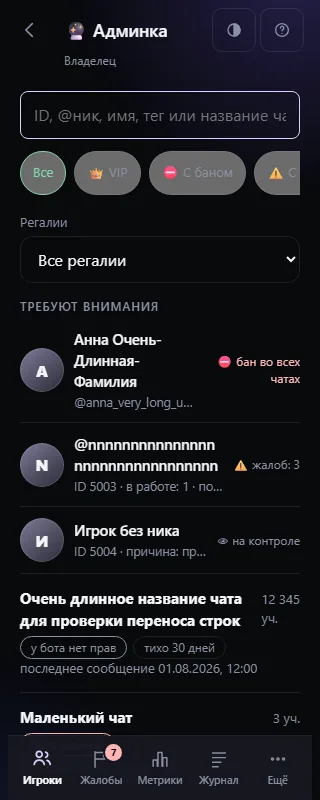
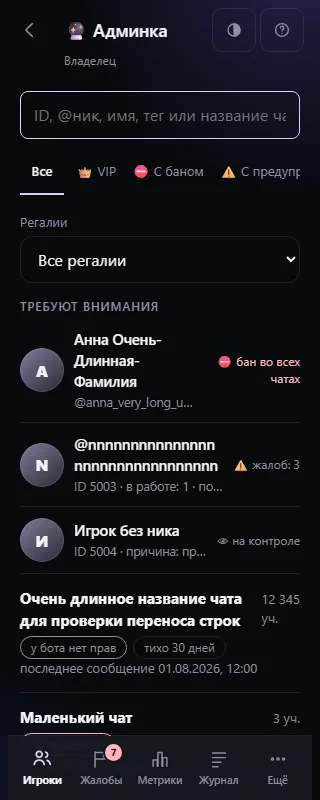
fix(predvestnik): flatten admin filters after owner review
Roadmap: S11

Changed region(s): [[0.0625, 0.1875, 0.9375, 0.25]]

diff --git a/predvestnik_v2/FastAPI/static/bot-admin/admin.css b/predvestnik_v2/FastAPI/static/bot-admin/admin.css
@@ -514,7 +514,10 @@ a[href="#"], a.ag-link { display: inline-flex; align-items: center; overflow-wra
 summary { display: flex; align-items: center; cursor: pointer; gap: 8px; color: var(--v3-dim); }
 summary::before { content: '›'; }
 details[open] > summary::before { transform: rotate(90deg); }
-button.chip, .chip[onclick] { display: inline-flex; align-items: center; justify-content: center; padding: 8px 12px; }
+button.chip, .chip[onclick] { appearance: none; display: inline-flex; align-items: center; justify-content: center; padding: 8px 12px; background: transparent; box-shadow: none; font-family: inherit; cursor: pointer; }
+.filters .chip { border: 0; border-bottom: 2px solid transparent; border-radius: 0; padding: 8px 4px; color: var(--v3-dim); }
+.filters .chip.ok { border-bottom-color: var(--v3-acc); color: var(--v3-ink); font-weight: 600; }
+.filters .chip:hover { color: var(--v3-ink); }
 .top { display: grid; grid-template-columns: 44px minmax(0,1fr) 44px 44px; gap: 4px; padding: calc(8px + var(--v3-safe-t)) 16px 4px; max-width: 900px; margin: auto; }
 .top .brand { font-size: 18px; }
 .top .who { grid-row: 2; grid-column: 2 / -1; margin: -4px 0 0; font-size: 12px; }

diff --git a/predvestnik_v2/tools/admin_ui_smoke.py b/predvestnik_v2/tools/admin_ui_smoke.py
@@ -20,6 +20,8 @@ OPENERS = {"admin-purge": f"purgeView(document.querySelector('#main'), {CHAT['id
            **{f"admin-{tab}": f"open('{tab}')" for tab in ("reports", "journal", "broadcast", "access", "metrics")}}
 PROBE = """() => {
   const fails = [], w = innerWidth;
+  const native = document.createElement('button'); document.body.append(native);
+  const nativeBg = getComputedStyle(native).backgroundColor; native.remove();
   const visible = n => n.getClientRects().length && !n.closest('[hidden],details:not([open]) > :not(summary)');
   const scrollParent = n => { for (let p=n.parentElement;p && p!==document.body;p=p.parentElement) {
     if (['auto','scroll'].includes(getComputedStyle(p).overflowX) && p.scrollWidth>p.clientWidth) return p;
@@ -29,6 +31,7 @@ PROBE = """() => {
     const r=n.getBoundingClientRect(), css=getComputedStyle(n), scroll=scrollParent(n);
     if (r.width && !scroll && (r.left < -1 || r.right > w+1)) fails.push('overflow '+n.tagName+'.'+n.className);
     const interactive=n.matches('button,a[href],input,select,textarea,summary,[onclick],[role=button]') || (typeof n.onclick==='function' && !n.matches('div,section,main,nav'));
+    if (n.matches('button') && !n.disabled && css.backgroundColor === nativeBg) fails.push('native button '+n.className);
     if (interactive && !n.disabled && (r.width <43.5 || r.height <43.5)) fails.push('target '+n.tagName+'.'+n.className+' '+Math.round(r.width)+'x'+Math.round(r.height));
     if (n.matches('input,select,textarea') && parseFloat(css.fontSize)<16) fails.push('font '+n.tagName+' '+css.fontSize);
   }
